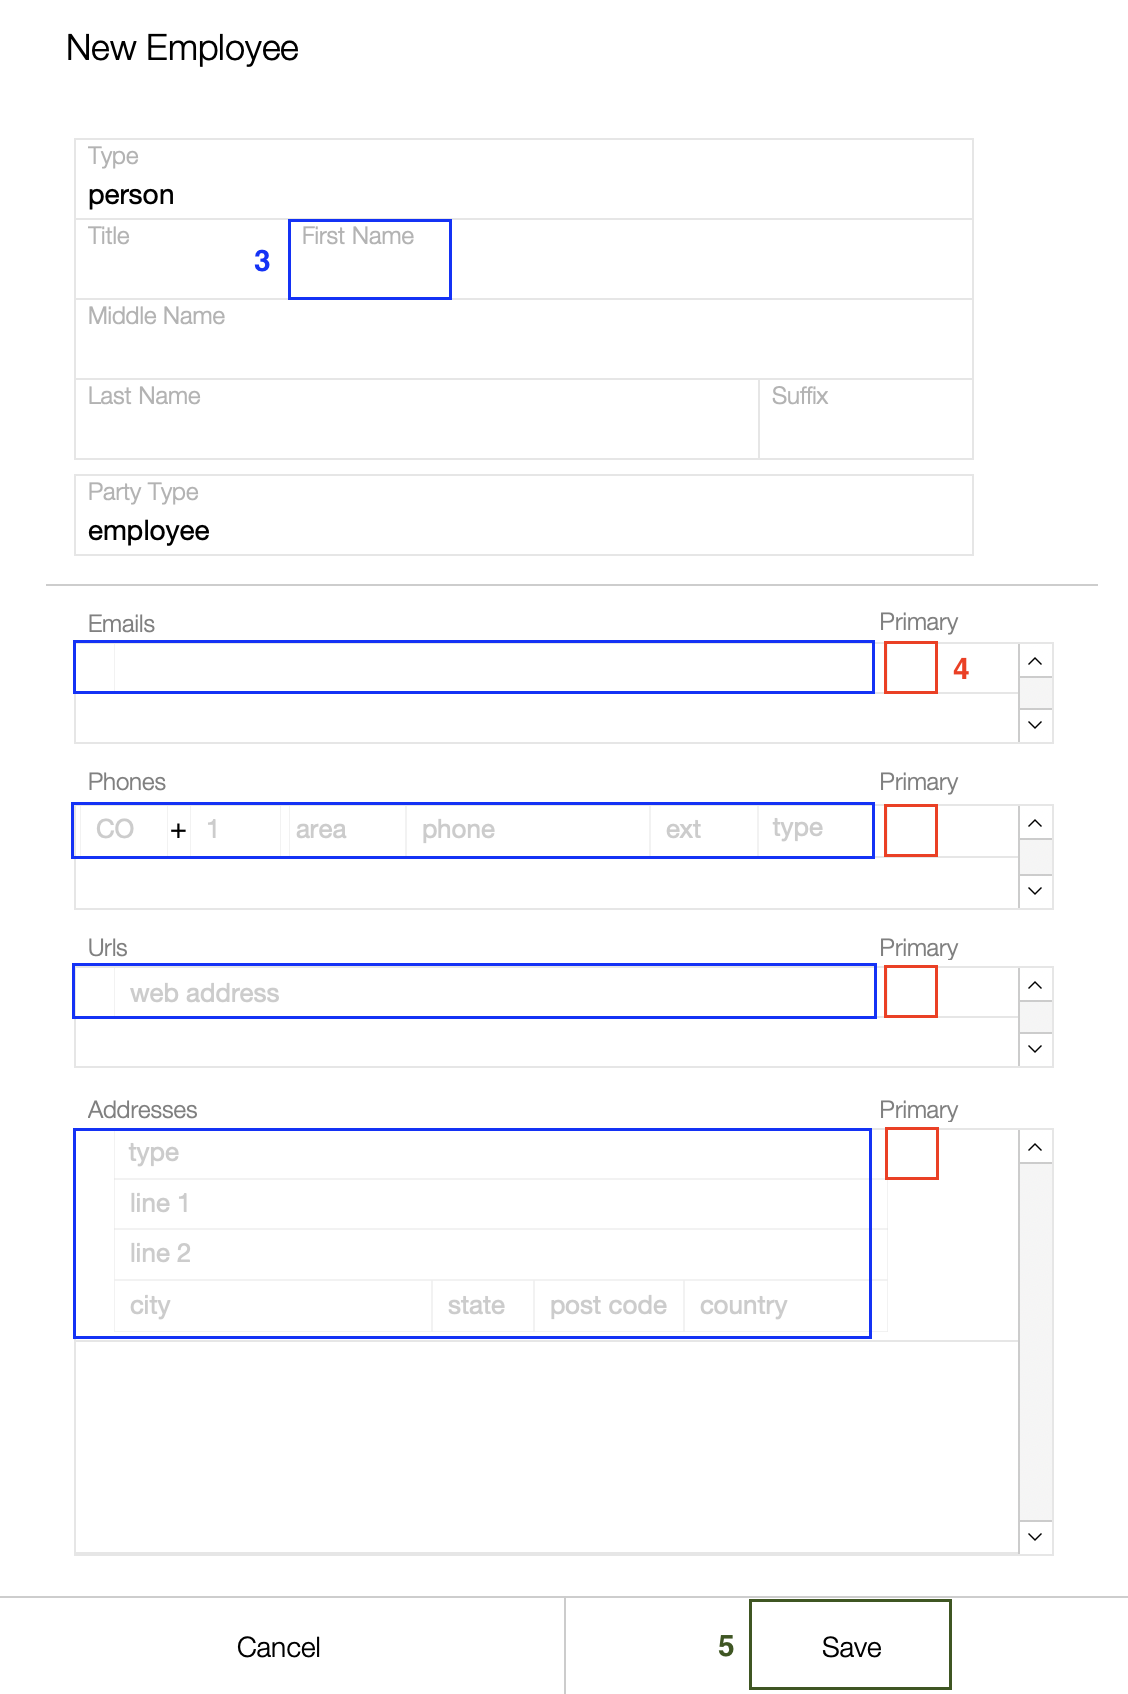
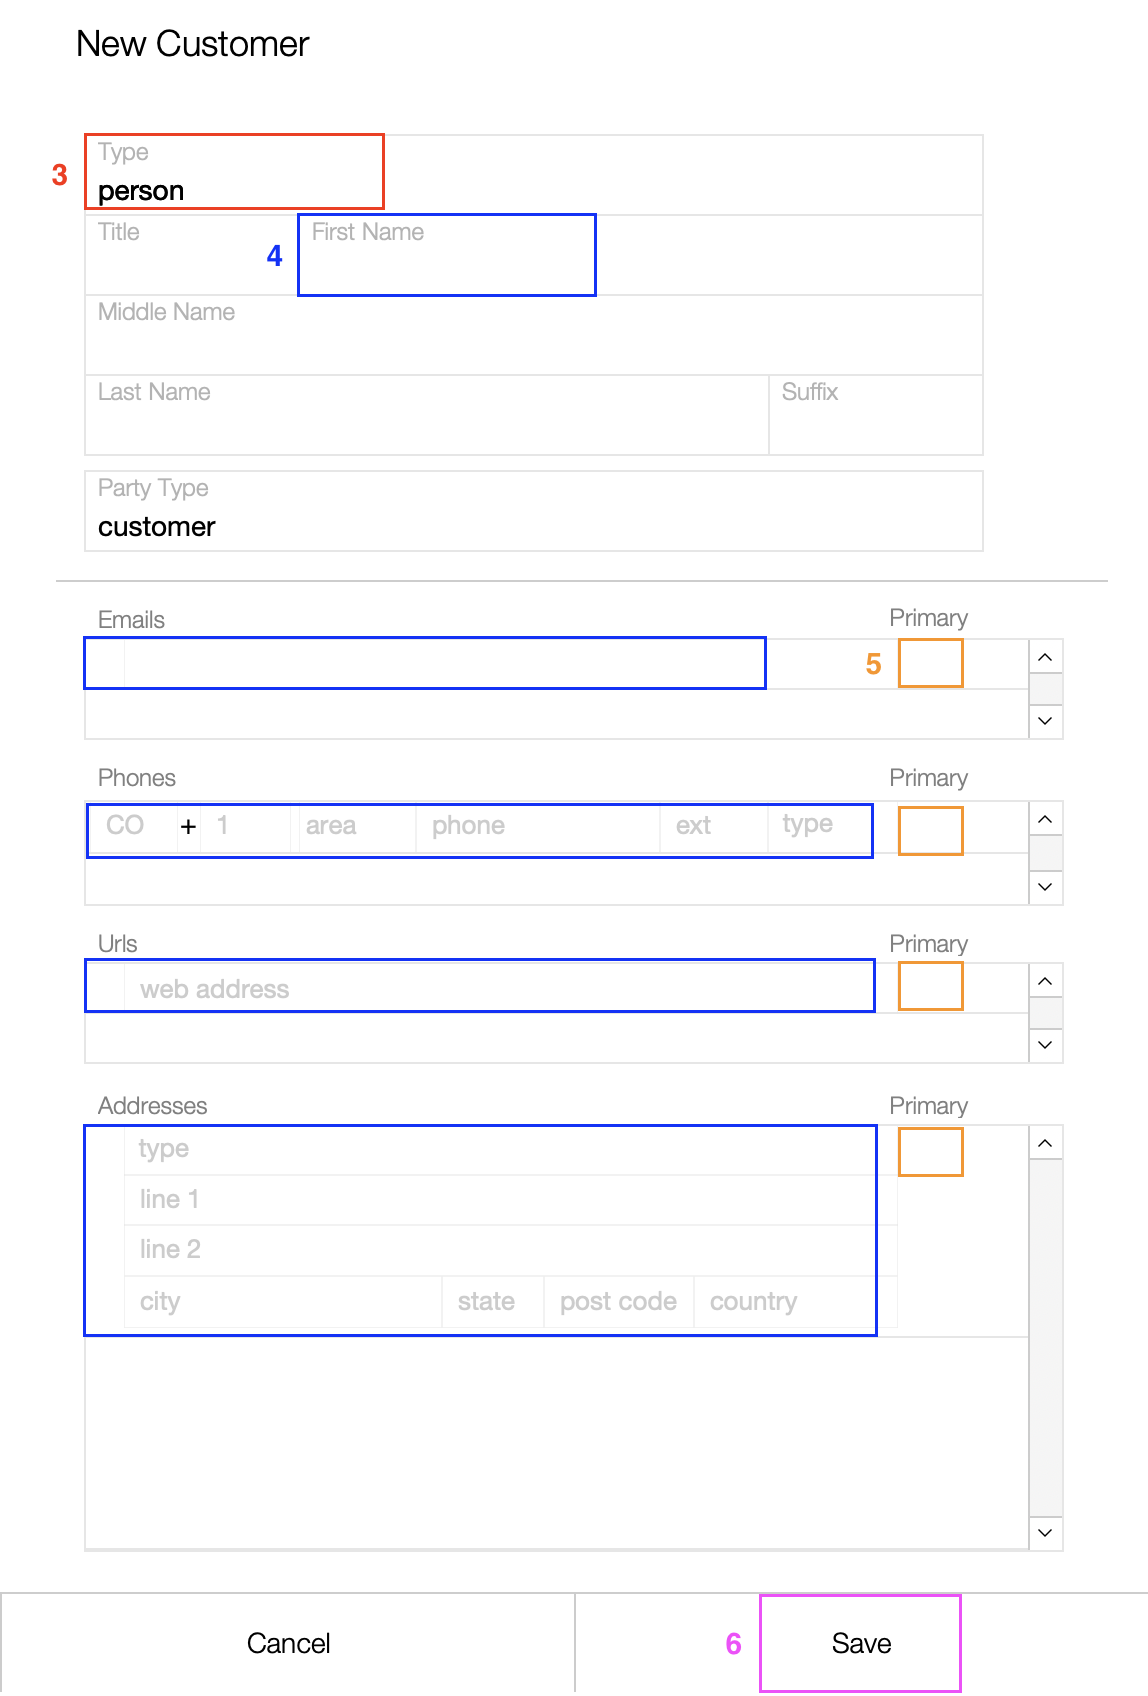
Updated Images 61-63 in Party Article

diff --git a/Horizon User Guide/02 All Parties/Party.md b/Horizon User Guide/02 All Parties/Party.md
@@ -101,7 +101,7 @@ Follow these steps to create a new employee record:
     
     - Click **Save** at the bottom right corner of the form after entering all details. This will automatically open the newly created employee record.
 
-<img src="https://github.com/Fx-Professional-Services/HorizonDocs/blob/staging/Horizon%20User%20Guide/00%20Assets/60_create_a_new_customer_record.png" width="200" height="300">
+<img src="https://github.com/Fx-Professional-Services/HorizonDocs/blob/staging/Horizon%20User%20Guide/00%20Assets/61_create_a_new_employee_record.png" width="200" height="300">
 
 # Create a New Vendor Record
 
